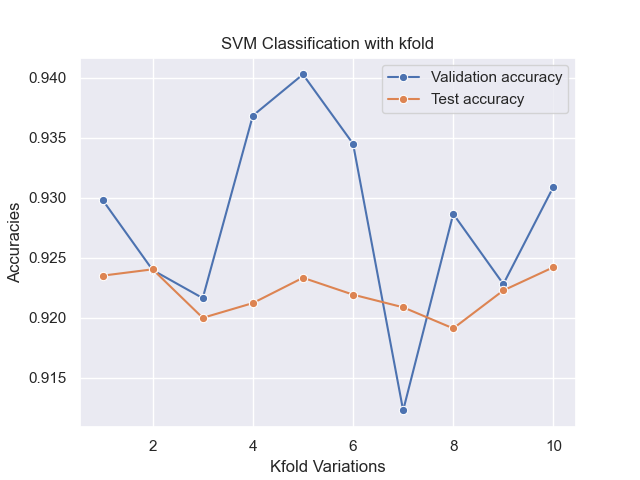
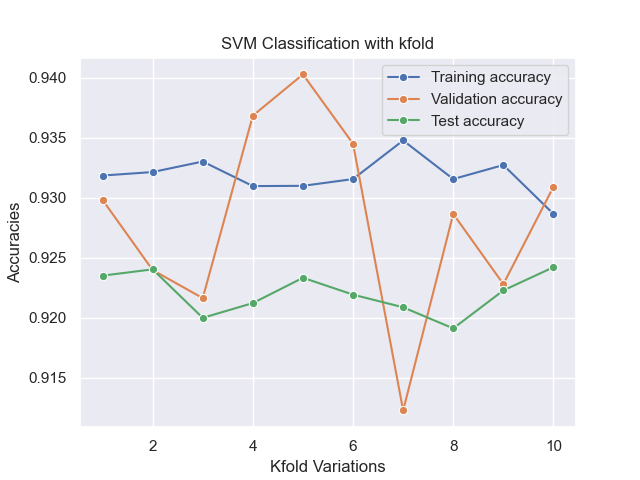
added training accuracy for svn

diff --git a/main_code/SVM_Classification.py b/main_code/SVM_Classification.py
@@ -21,8 +21,9 @@ if __name__ == "__main__":
     rkf = RepeatedKFold(n_splits=kfold_split, n_repeats=kfold_repeat, random_state=42)
     clf = SVC(kernel='linear', C=1, random_state=2)
 
-    cv_results = cross_validate(clf, X, Y, cv=rkf, return_estimator=True)
-    print(f"validation accuracy after kfold: {cv_results['test_score']}")
+    cv_results = cross_validate(clf, X, Y, cv=rkf, return_train_score=True, return_estimator=True)
+    print(f"Training accuracy after kfold: {cv_results['train_score']}")
+    print(f"Validation accuracy after kfold: {cv_results['test_score']}")
     rfc_fit = cv_results['estimator']
 
     y_ax_test = []
@@ -31,14 +32,16 @@ if __name__ == "__main__":
         y_ax_test.append(accuracy_score(Y_test, y_pred))
     y_ax_test = np.array(y_ax_test)
 
-    print(f"validation accuracy after kfold: {y_ax_test}")
+    print(f"Test accuracy after kfold: {y_ax_test}")
 
     x_ax = np.arange(1, 11, dtype=int)
     y_ax_val = cv_results['test_score']
+    y_ax_train = cv_results['train_score']
 
-    sns.lineplot(x=x_ax, y=y_ax_val, marker="o", err_style="bars")
-    sns.lineplot(x=x_ax, y=y_ax_test, marker="o", err_style="bars")
-    plt.legend(["Validation accuracy", "Test accuracy"])
+    sns.lineplot(x=x_ax, y=y_ax_train, marker="o")
+    sns.lineplot(x=x_ax, y=y_ax_val, marker="o")
+    sns.lineplot(x=x_ax, y=y_ax_test, marker="o")
+    plt.legend(["Training accuracy", "Validation accuracy", "Test accuracy"])
     plt.xlabel("Kfold Variations")
     plt.ylabel("Accuracies")
     plt.title("SVM Classification with kfold")
